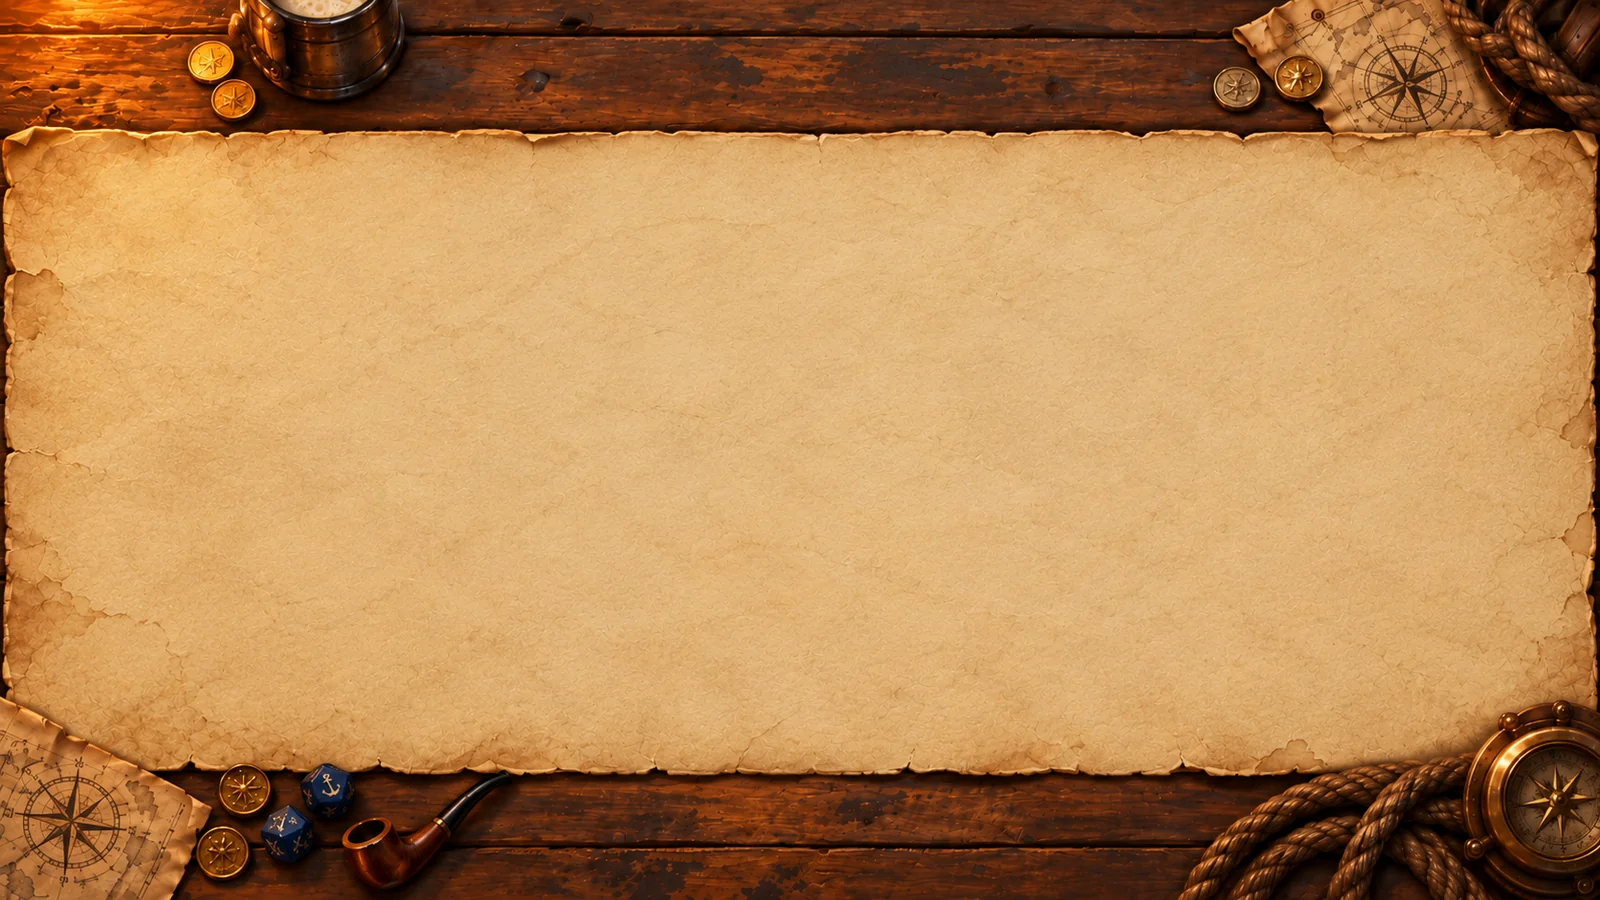
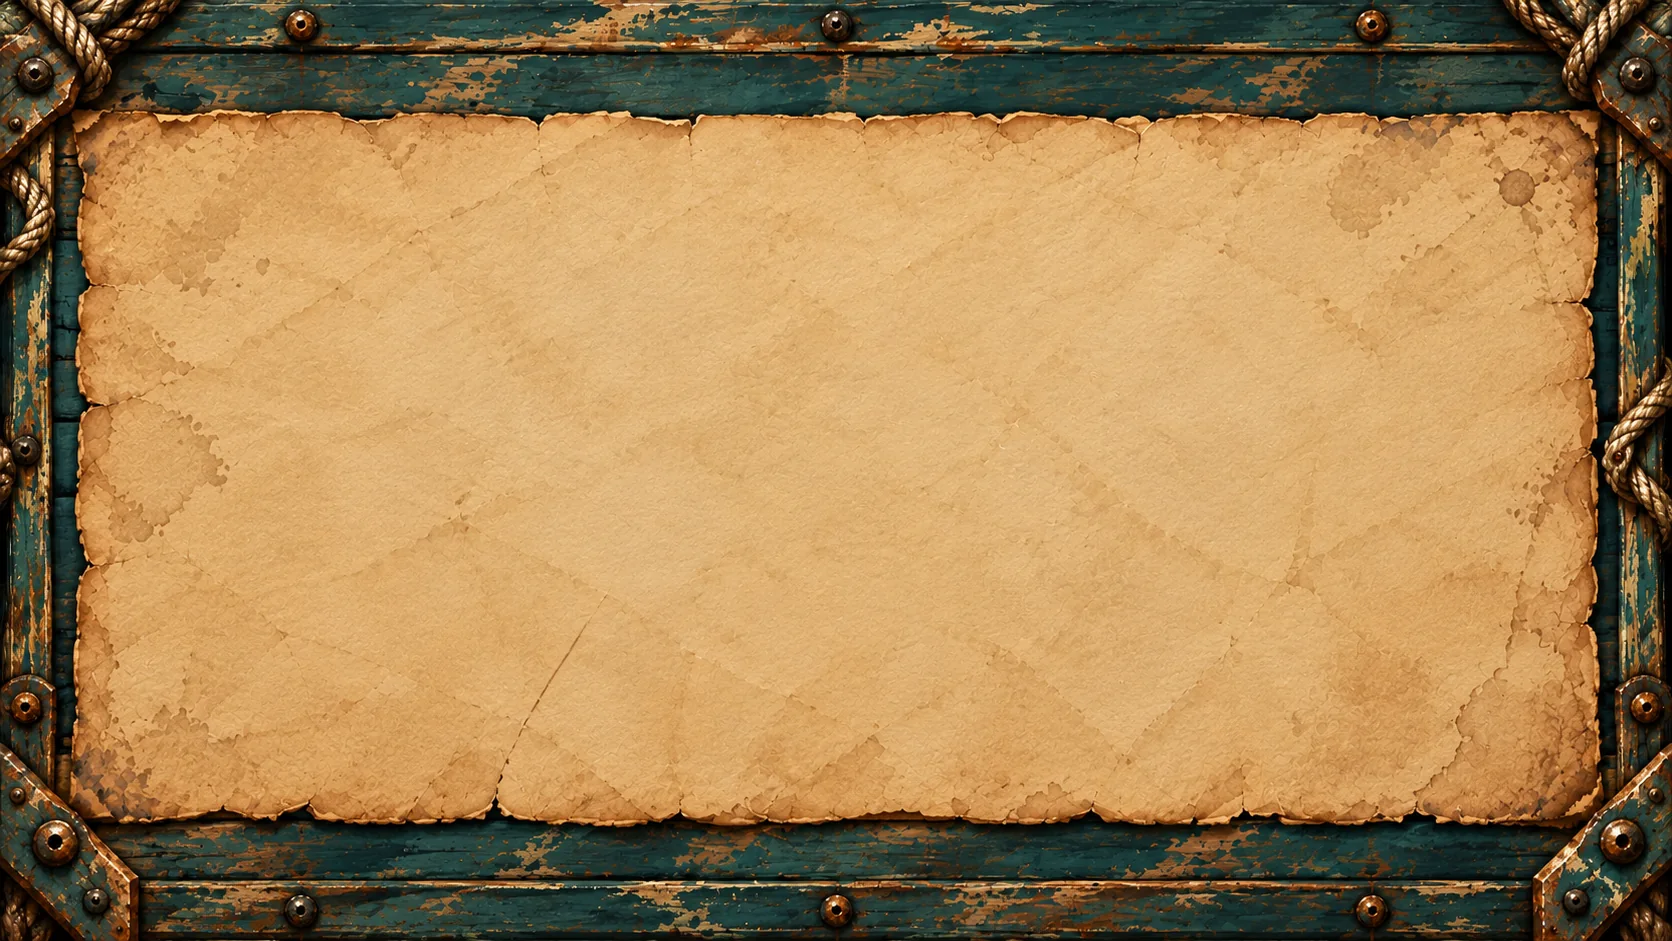
Table classique : nouveau fond (cadre de planches et cordages), cadrage sans sur-zoom

diff --git a/features/match/table/BackgroundLayer.tsx b/features/match/table/BackgroundLayer.tsx
@@ -7,9 +7,9 @@ import { useLandeTuning } from "@/features/match/landes/landeTuning";
 import styles from "@/features/match/table/Table.module.css";
 
 /**
- * TABLE CLASSIQUE (maquette du 06/10/2026) : une table de bois, un tapis de
- * parchemin où se pose le plateau, et dans les coins pièces, dés, pipe,
- * cartes et boussole — tout est peint dans le fond (1672 × 941).
+ * TABLE CLASSIQUE (fond du 07/10/2026) : un tapis de parchemin où se pose le
+ * plateau, serti dans un cadre de planches bleu-vert cloutées et de
+ * cordages — tout est peint dans le fond (1672 × 941).
  */
 const TABLE_SRC = "/assets/board/table-classique/playground.webp";
 
@@ -17,12 +17,14 @@ const TABLE_SRC = "/assets/board/table-classique/playground.webp";
 const BOUGIE_SRC = "/assets/board/table-classique/bougie.webp";
 
 /**
- * Le tapis de parchemin dans le fond (mesuré : x 5 → 1668, y 135 → 805),
- * pris un peu en retrait de ses bords déchirés : le plateau se pose dedans.
- * Le fond est peint pour l'interface (tapis sur toute la largeur, bois en
- * haut et en bas pour les mains) : le zoom reste faible.
+ * Le tapis de parchemin dans le fond (mesuré : x 75 → 1598, y 112 → 825),
+ * pris un peu en retrait de ses bords déchirés en hauteur : le plateau se
+ * pose dedans. En largeur, la cible est le fond presque entier : les rangées
+ * vont d'un bord à l'autre de l'écran, et les faire tenir dans le seul
+ * parchemin zoomait le fond au point de le flouter et de couper le cadre ;
+ * elles passent donc sur les planches de côté.
  */
-const TABLE_FIT: FitTarget = [15 / 1672, 145 / 941, 1657 / 1672, 797 / 941];
+const TABLE_FIT: FitTarget = [12 / 1672, 125 / 941, 1660 / 1672, 812 / 941];
 
 /** Zones d'interface que le fond doit englober (les mains en restent dehors, comme sur la maquette). */
 const UI_ZONES = '[data-zone="OpponentZone"], [data-zone="CenterZone"], [data-zone="PlayerZone"], [data-zone="SideRail"]';
